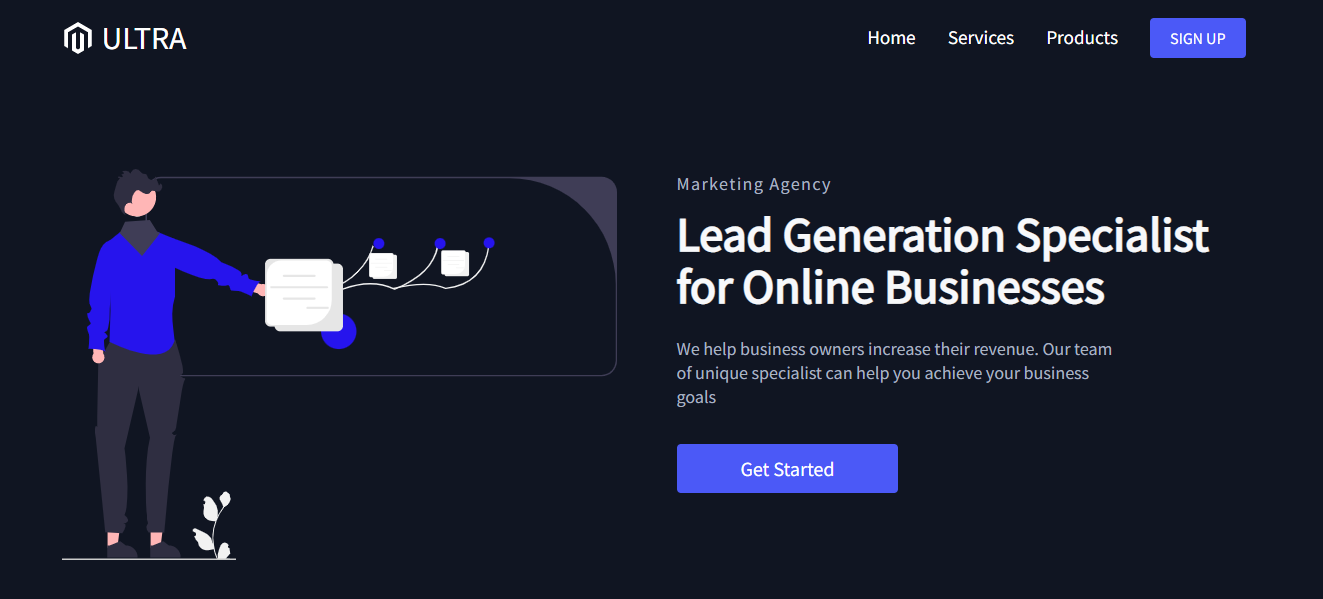
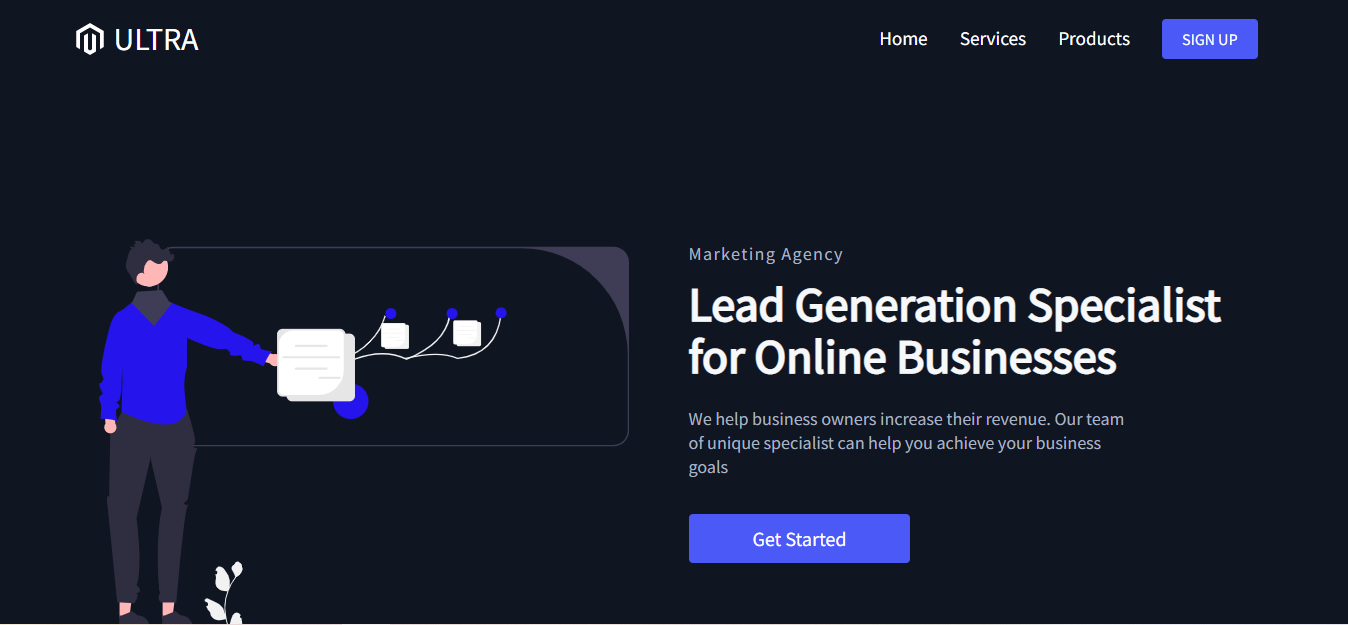
updated a bit

diff --git a/src/components/Projects/Projects.js b/src/components/Projects/Projects.js
@@ -3,15 +3,15 @@ import styled from "styled-components";
 import { projectsData } from "./projects.data";
 
 const Container = styled.div`
-  padding: 20px 20px;
+  padding: 40px 40px;
   align-items: center;
   border-bottom: 1px solid #ebcf63;
 `;
 
 const ListContainer = styled.div`
-  padding: 10px 20px;
+  padding: 50px 0px 30px 0px;
   display: flex;
-  gap: 20px;
+  gap: 30px;
 `;
 
 const StyledAnchor = styled.a`
@@ -19,9 +19,13 @@ const StyledAnchor = styled.a`
 `;
 
 const Box = styled.div`
-  border: 4px solid rebeccapurple;
-  border-radius: 30px;
-  display: block;
+  border-radius: 20px;
+  display: flex;
+  background-color: #1d2951;
+  width: 400px;
+  height: 400px;
+  flex-direction: column;
+  padding: 20px 40px;
 `;
 
 const Heading = styled.div`
@@ -34,20 +38,24 @@ const Descp = styled.div`
   justify-content: center;
   align-items: center;
   flex-direction: column;
-  height: auto;
-  width: 100%;
+  padding: 20px 10px;
+  gap: 30px;
+  text-align: center;
 `;
 
-// const Image = styled.div`
-//   border-radius: 30px;
-// `;
+const Img = styled.img`
+  width: 400px;
+  border-bottom-left-radius: 20px;
+  border-bottom-right-radius: 20px;
+`;
 
-// const LanguageUsed = styled.p`
-//   justify-content: center;
-//   align-items: center;
-//   display: flex;
-//   flex-direction: column;
-// `;
+const LanguageList = styled.p`
+  justify-content: center;
+  align-items: center;
+  display: flex;
+  flex-direction: row;
+  gap: 30px;
+`;
 
 const Projects = () => {
   return (
@@ -62,17 +70,13 @@ const Projects = () => {
               <Descp>
                 <h3>{project.title}</h3>
                 <p>{project.description}</p>
-                {/* <LanguageUsed> */}
-                <p>
+                <LanguageList>
                   {project.languages.map((language) => (
                     <p>{language}</p>
                   ))}
-                </p>
-                {/* </LanguageUsed> */}
+                </LanguageList>
                 <StyledAnchor href={project.link}>
-                  {/* <Image> */}
-                  <img height={200} width={400} src={project.img} alt={"alt"} />
-                  {/* </Image> */}
+                  <Img src={project.img} alt={"alt"} />
                 </StyledAnchor>
               </Descp>
             </Box>

diff --git a/src/components/Contacts/Contacts.js b/src/components/Contacts/Contacts.js
@@ -3,11 +3,12 @@ import styled from "styled-components";
 import { contactsData } from "./contacts.data";
 
 const Container = styled.div`
-  padding: 10px 20px;
+  padding: 40px 40px;
   align-items: center;
   justify-content: center;
   flex-direction: column;
   display: flex;
+  gap: 20px;
 `;
 
 const Icon = styled.div`
@@ -48,7 +49,7 @@ const StyledAnchor = styled.a`
 `;
 
 const Descp = styled.div`
-  padding: 0px 200px 15px 200px;
+  padding: 0px 180px 15px 180px;
   align-items: center;
   justify-content: center;
   display: flex;

diff --git a/src/components/Skills/Skills.js b/src/components/Skills/Skills.js
@@ -3,14 +3,18 @@ import styled from "styled-components";
 import { skillsData } from "./skills.data";
 
 const Container = styled.div`
-  padding: 20px 20px;
+  padding: 40px 30px 20px 30px;
   border-bottom: 1px solid #ebcf63;
 `;
 
 const ListContainer = styled.div`
-  display: flex;
-  gap: 50px;
+  display: grid;
   justify-content: center;
+  grid-template-columns: auto auto auto;
+  margin: 0;
+  column-gap: 150px;
+  padding: 50px 40px 30px 40px;
+  row-gap: 50px;
 `;
 
 const Heading = styled.div`

diff --git a/src/components/Skills/skills.data.js b/src/components/Skills/skills.data.js
@@ -1,9 +1,14 @@
 import { IoLogoHtml5, IoLogoCss3 } from "react-icons/io";
 import { SiJavascript } from "react-icons/si";
 import { FaReact, FaStar } from "react-icons/fa";
-import { TbBrandGithub } from "react-icons/tb";
+import { TbBrandPython, TbBrandGithub } from "react-icons/tb";
 
 export const skillsData = [
+  {
+    name: "Python",
+    icon: <TbBrandPython />,
+    description: [<FaStar />, <FaStar />, <FaStar />],
+  },
   {
     name: "HTML",
     icon: <IoLogoHtml5 />,

diff --git a/src/globalStyles.js b/src/globalStyles.js
@@ -11,12 +11,20 @@ const body = css`
     /* color: #ebcf63; */
     font-size: 20px;
     background-color: #191c29;
-    margin: 0;
-    padding: 0;
   }
 
   * {
     box-sizing: border-box;
+  }
+
+  h1,
+  h2,
+  h3,
+  h4,
+  h5,
+  p {
+    margin: 0;
+    padding: 0;
   }
 `;
 

diff --git a/src/components/Projects/projects.data.js b/src/components/Projects/projects.data.js
@@ -31,6 +31,6 @@ export const projectsData = [
     languages: [<IoLogoHtml5 />, <IoLogoCss3 />, <SiJavascript />, <FaReact />],
     img: image3,
     alt: "Image",
-    link: "https://ztodolist.netlify.app/",
+    link: "https://todolistzz.netlify.app/",
   },
 ];

diff --git a/src/components/Intro/Intro.js b/src/components/Intro/Intro.js
@@ -8,7 +8,8 @@ const Container = styled.div`
   justify-content: center;
   align-items: center;
   flex-direction: column;
-  padding: 20px 20px;
+  padding: 40px 40px;
+  gap: 30px;
 `;
 
 const Intro = () => {
